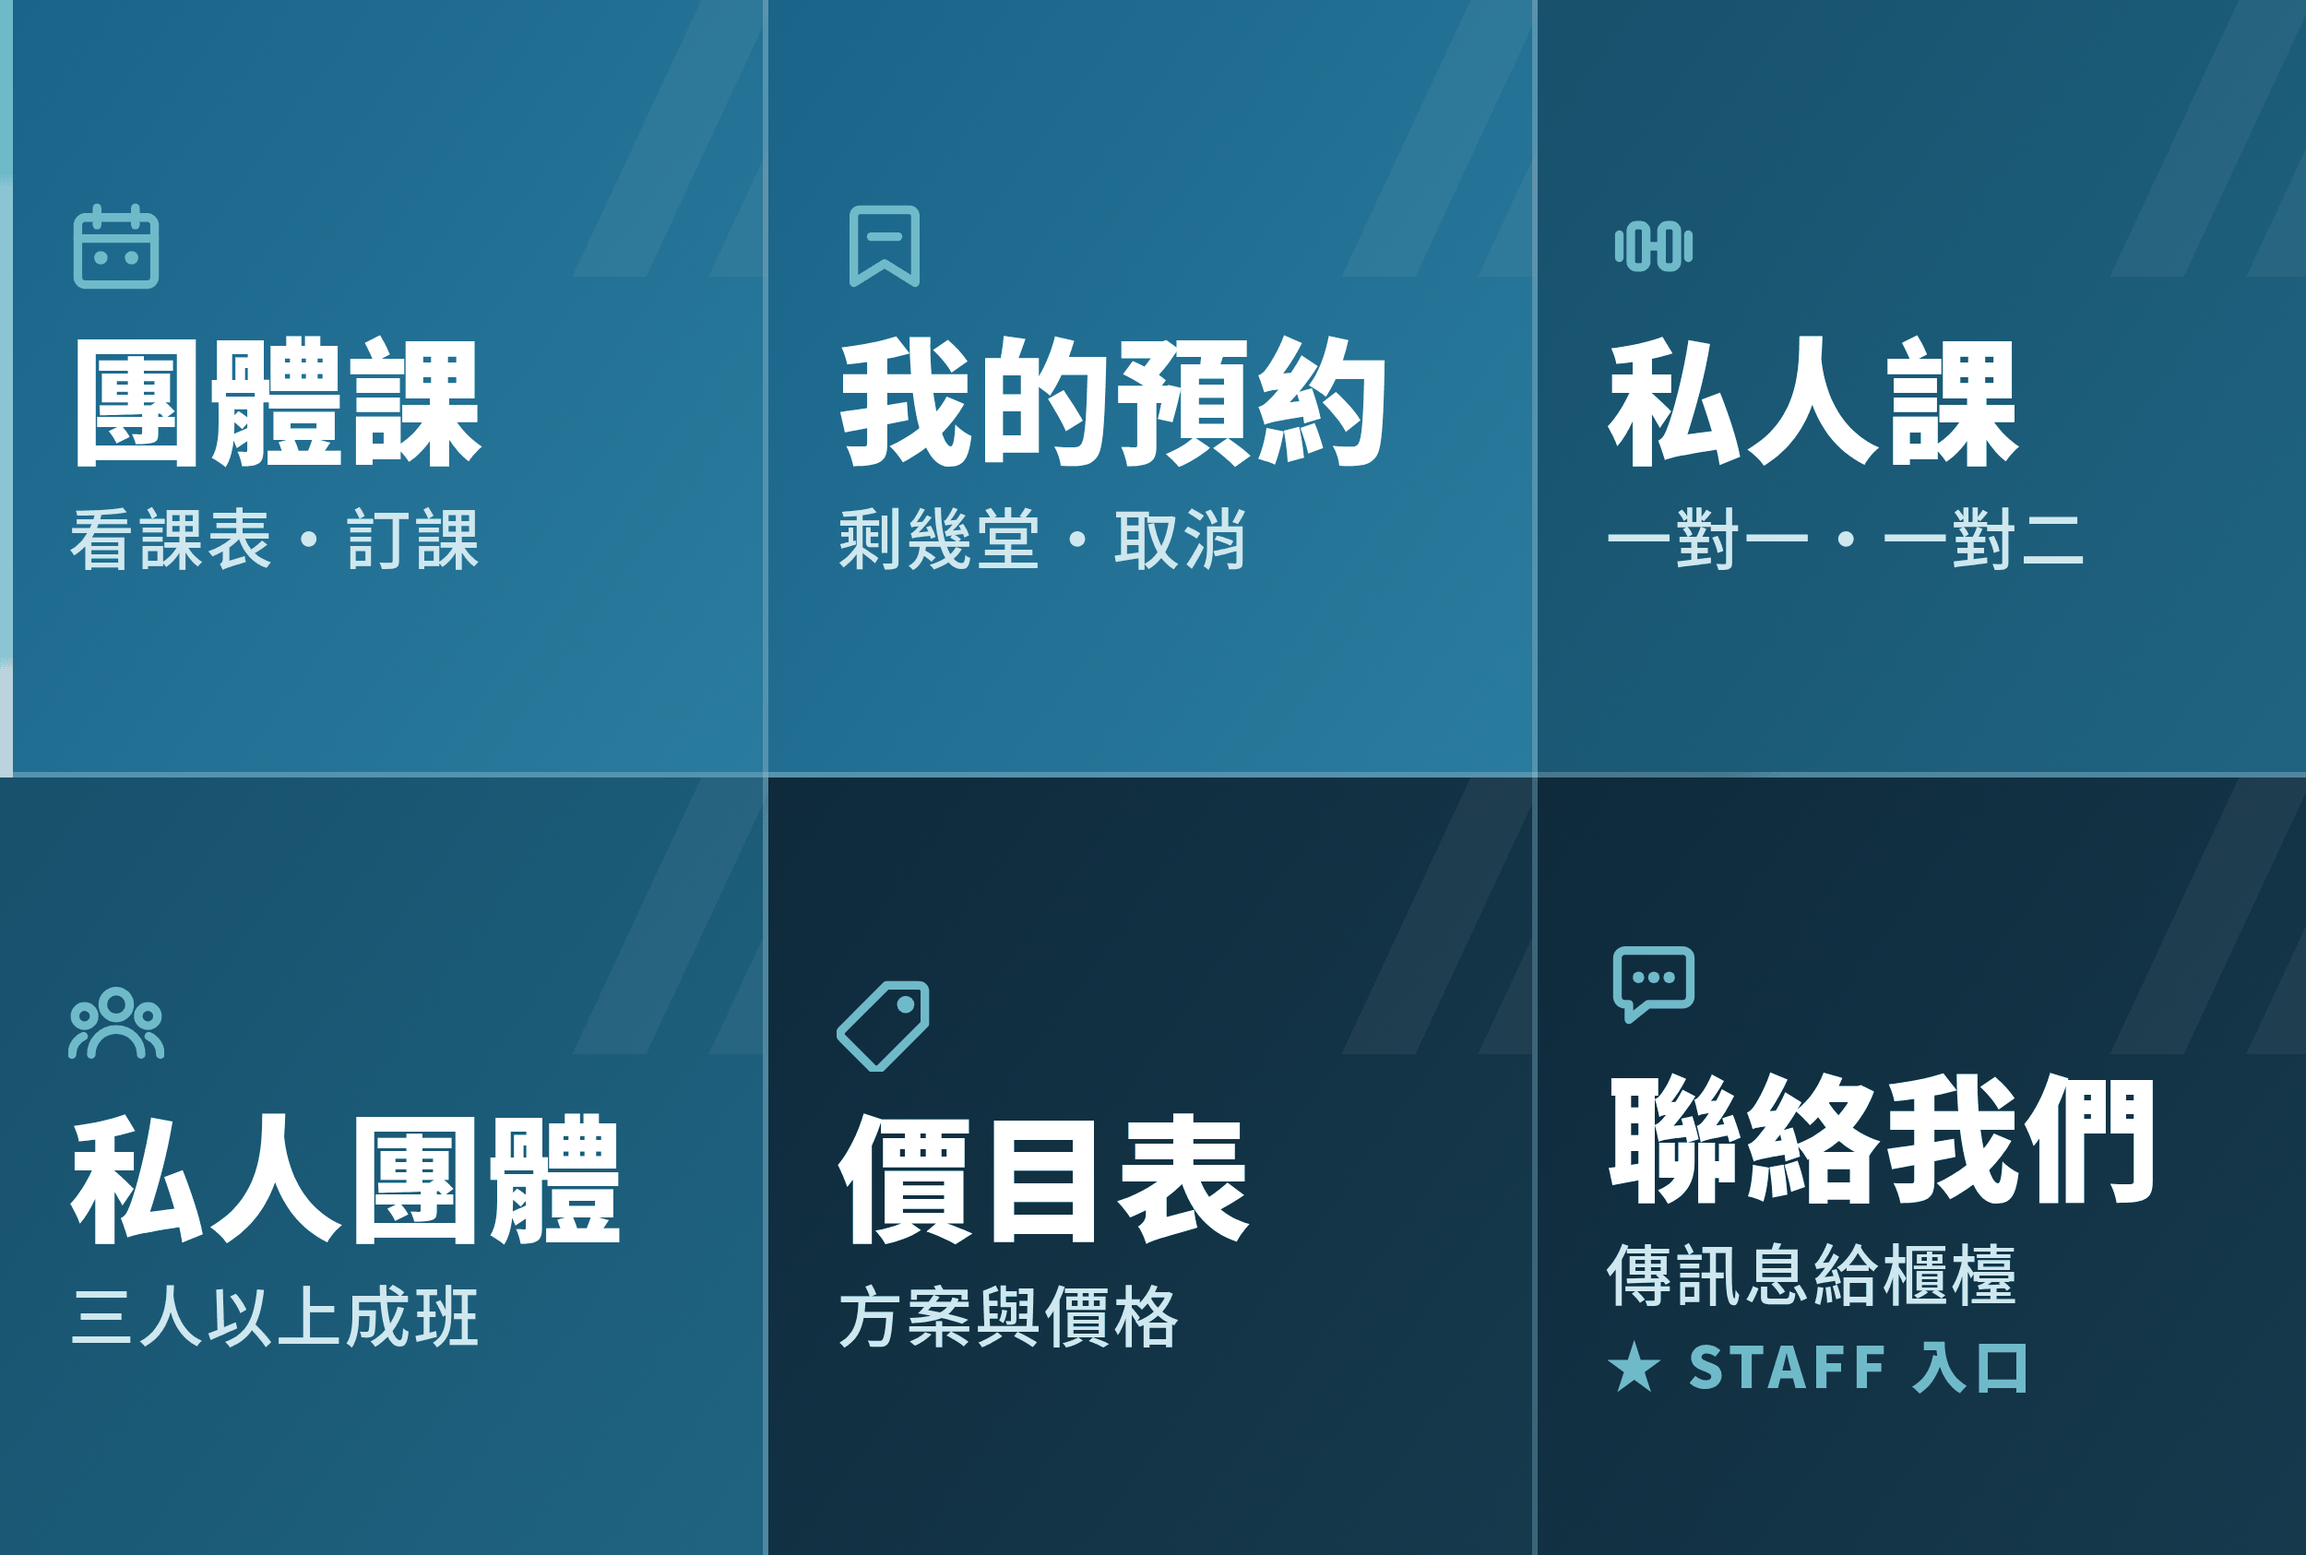
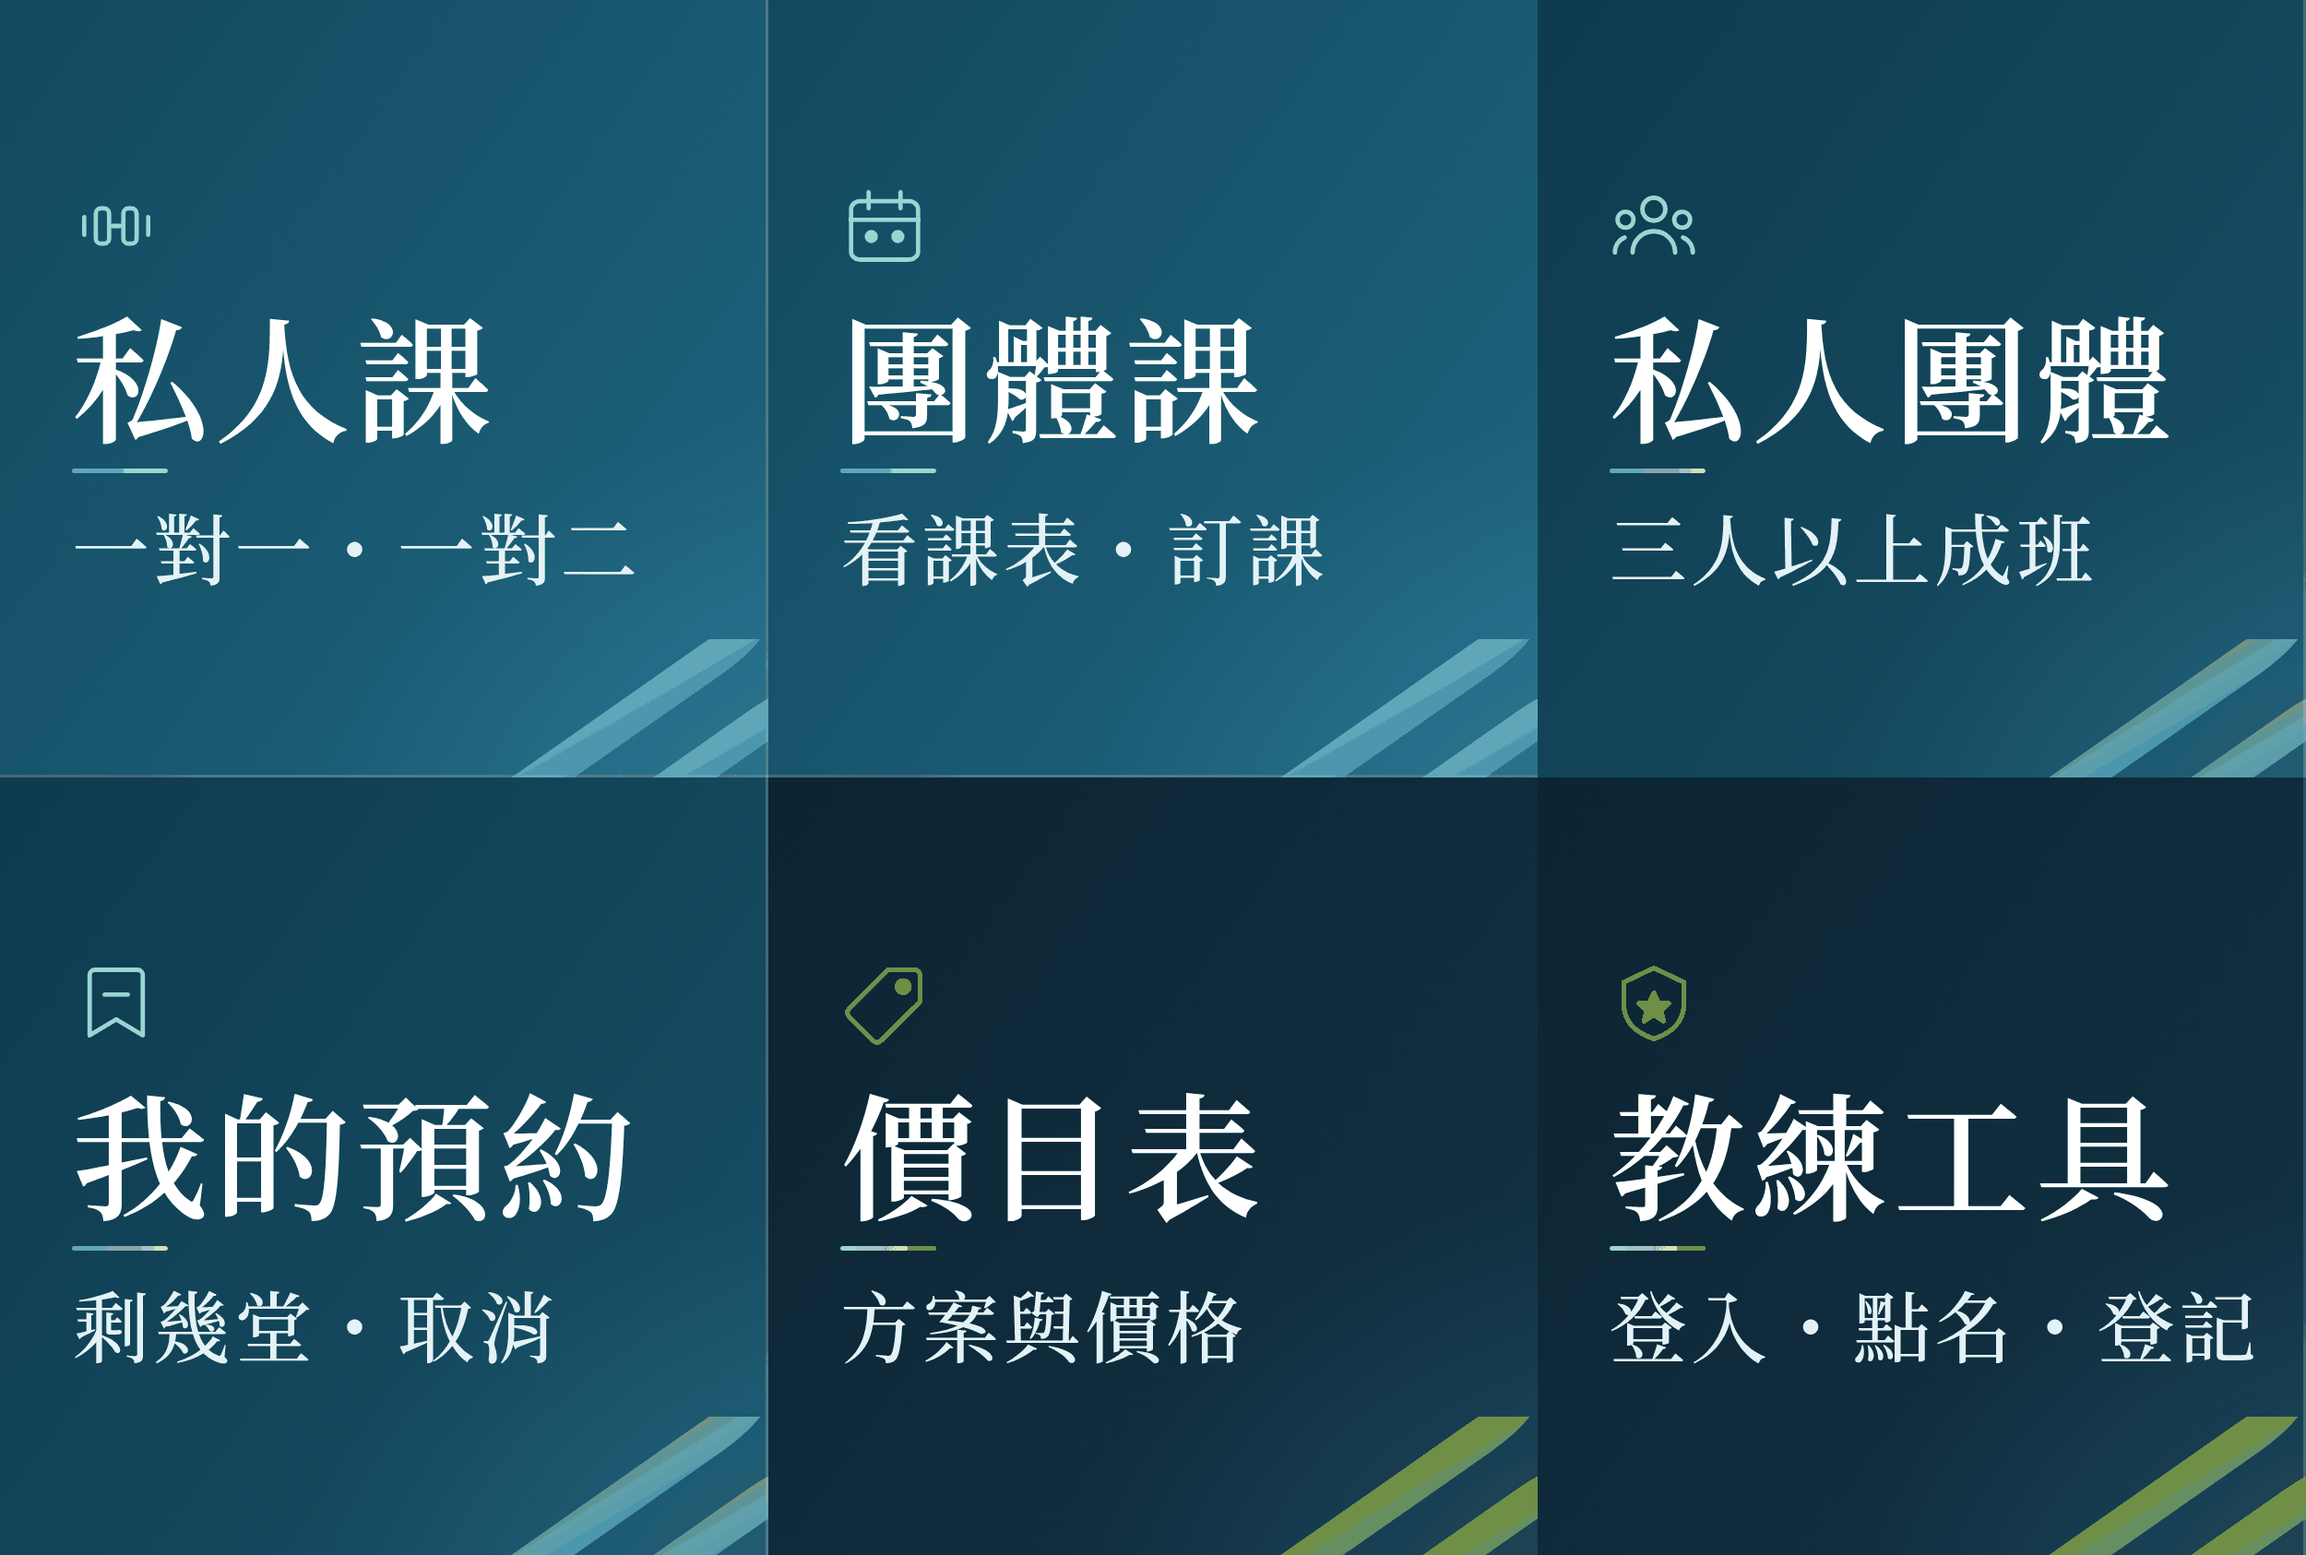
教練版圖文選單 v5：與客人版共用同一份原始檔；第六格改成教練工具

diff --git a/assets/brand/shot-staff.py b/assets/brand/shot-staff.py
@@ -2,38 +2,118 @@
 重新產生【職員版】LINE 圖文選單底圖：
     python3 shot-staff.py
 
-☢ 跟 shot.py 同一套保險絲，理由見那支的註解：
-   ① 尺寸必須是 2500×1686　② 檔案 < 1 MB　③ 白字對比 ≥ 4.5:1
-☢ 兩張圖的【格線必須完全一樣】—— 六個可點區域是照 833×843 切的，
-   職員版只是換了第六格的字，網格一動所有按鈕就錯位。
+☢☢ 這支【不再有自己的 HTML】。
+   以前是 richmenu-staff-source.html 和 richmenu-source.html 兩份，
+   而兩份的開頭都寫著「兩張圖要一起改」—— 那句警告之所以需要存在，
+   正是因為有兩份。而它還是失效了：
+   客人版在 v3 換了六格順序，職員版沒跟上，兩張圖從此對不起來
+   （2026-08-22 Jerec 發現）。
+
+   v5 改成【只有一份設計】：直接讀客人版的 richmenu-source.html，
+   在瀏覽器裡把第六格換成「教練工具」，再截圖。
+   前五格因此【不可能】不一樣 —— 不是靠人記得，是靠沒有第二份可以改。
+
+☢ 第六格的動作是 staff.html（教練登入），不是傳訊息給櫃檯。
+   舊版那一格畫的是「聯絡我們／傳訊息給櫃檯」，底下才加一行 ★STAFF 入口 ——
+   【寫的跟做的不一樣】。教練按下去進的是登入頁，不是聊天室。
+   v5 直接把字改成「教練工具」，讓畫面說實話。
+
+☢ 六格順序改了 → tools/setup-staff-richmenu.ps1 裡的六個動作也要跟著改。
+   可點區域綁的是位置，不是圖案。
 """
 import pathlib
 from playwright.sync_api import sync_playwright
 from PIL import Image
 
 OUT   = 'fff-richmenu-staff.png'
+SRC   = 'richmenu-source.html'      # ☢ 跟客人版同一份
 W, H  = 2500, 1686
+CW, CH = W // 3, H // 2
+PAD   = 78
 LIMIT = 1024 * 1024
 PHONE = 390
+MIN_RATIO = 4.5
+INK, SUB = '#FFFFFF', '#E4F2F7'
 
-src = pathlib.Path('richmenu-staff-source.html').resolve()
+# 第六格換成教練工具：盾牌加星星，一眼看得出「這格是給自己人的」
+STAFF_ICON = ('<path d="M50 10 L84 26 V50 C84 72 68 84 50 90 C32 84 16 72 16 50 V26 Z"/>'
+              '<path class="fill" d="M50 38 L55 49 L67 50 L58 58 L61 70 L50 63 '
+              'L39 70 L42 58 L33 50 L45 49 Z"/>')
+
+def _lin(c):
+    c /= 255
+    return c / 12.92 if c <= 0.04045 else ((c + 0.055) / 1.055) ** 2.4
+
+def lum(rgb):
+    r, g, b = rgb
+    return 0.2126 * _lin(r) + 0.7152 * _lin(g) + 0.0722 * _lin(b)
+
+def ratio(a, b):
+    la, lb = lum(a), lum(b)
+    hi, lo = max(la, lb), min(la, lb)
+    return (hi + 0.05) / (lo + 0.05)
+
+def hex2rgb(h):
+    return tuple(int(h[i:i+2], 16) for i in (1, 3, 5))
+
+html = pathlib.Path(SRC).read_text(encoding='utf-8')
+for c in (INK, SUB):
+    assert c.lower() in html.lower(), \
+        f'{c} 沒有出現在 {SRC} 裡 —— 顏色改過了，這支檔案要跟著改，不然對比檢查是假的'
+
+SWAP = """(icon) => {
+  const cells = document.querySelectorAll('.c');
+  if (cells.length !== 6) throw new Error('格數不是 6，版面改過了');
+  const f = cells[5];
+  f.querySelector('.t').textContent = '教練工具';
+  f.querySelector('.s').textContent = '登入・點名・登記';
+  f.querySelector('.ico').innerHTML = icon;
+  return f.querySelector('.t').textContent;
+}"""
+
+src = pathlib.Path(SRC).resolve()
 with sync_playwright() as p:
     b  = p.chromium.launch()
     pg = b.new_page(viewport={'width': W, 'height': H}, device_scale_factor=1)
     pg.goto(src.as_uri())
-    pg.wait_for_timeout(600)
+    pg.wait_for_timeout(900)
+    got = pg.evaluate(SWAP, STAFF_ICON)
+    assert got == '教練工具', '第六格沒換成功'
+    pg.wait_for_timeout(250)
     pg.screenshot(path='/tmp/_raw_staff.png')
+    pg.add_style_tag(content='.t,.s,.ico{visibility:hidden !important}')
+    pg.wait_for_timeout(200)
+    pg.screenshot(path='/tmp/_bg_staff.png')
     b.close()
 
 im = Image.open('/tmp/_raw_staff.png').convert('RGB')
-assert im.size == (W, H), f'尺寸 {im.size} 不是 {(W, H)} —— 六個按鈕位置會全部跑掉'
+assert im.size == (W, H), f'尺寸 {im.size} 不是 {(W, H)}'
+
+bg = Image.open('/tmp/_bg_staff.png').convert('RGB')
+worst = None
+for row in range(2):
+    for col in range(3):
+        box = (col * CW + PAD, row * CH + 170, col * CW + PAD + 660, row * CH + 690)
+        px = list(bg.crop(box).getdata())[::7]
+        # ☢ 最不利不一定是最暗的（白字深底時最亮的才危險）—— 兩端都算
+        lo, hi = min(px, key=lum), max(px, key=lum)
+        ri = min(ratio(hex2rgb(INK), lo), ratio(hex2rgb(INK), hi))
+        rs = min(ratio(hex2rgb(SUB), lo), ratio(hex2rgb(SUB), hi))
+        tag = '第%d格' % (row * 3 + col + 1)
+        print(f'  {tag} 標題 {ri:.2f}:1 ｜副標 {rs:.2f}:1')
+        assert ri >= MIN_RATIO, f'{tag} 標題對比只有 {ri:.2f}:1'
+        assert rs >= MIN_RATIO, f'{tag} 副標對比只有 {rs:.2f}:1'
+        worst = rs if worst is None else min(worst, rs)
 
 im.quantize(colors=256, method=Image.MEDIANCUT,
             dither=Image.FLOYDSTEINBERG).save(OUT, optimize=True)
 size = pathlib.Path(OUT).stat().st_size
 assert size < LIMIT, f'{size/1024:.0f} KB 超過 LINE 的 1 MB 上限'
 
-Image.open(OUT).resize((PHONE, round(H * PHONE / W)), Image.LANCZOS).save('phone-staff.png')
+Image.open(OUT).resize((PHONE, round(H * PHONE / W)), Image.LANCZOS).save('phone-staff-v5.png')
+
 print(f'✓ {OUT}  {im.size}  {size/1024:.0f} KB（上限 1024 KB）')
-print(f'✓ 手機上：STAFF 入口那一行 {62*PHONE/W:.1f}pt')
-print('✓ phone-staff.png = 教練手機上的實際大小')
+print(f'✓ 最差的對比 {worst:.2f}:1（下限 {MIN_RATIO}:1）')
+print('✓ 前五格與客人版【同一份原始檔】產生 —— 不可能不一樣')
+print('☢ 六格順序：私人課／團體課／私人團體／我的預約／價目表／教練工具')
+print('☢ tools/setup-staff-richmenu.ps1 的六個動作要跟這個順序一致')
